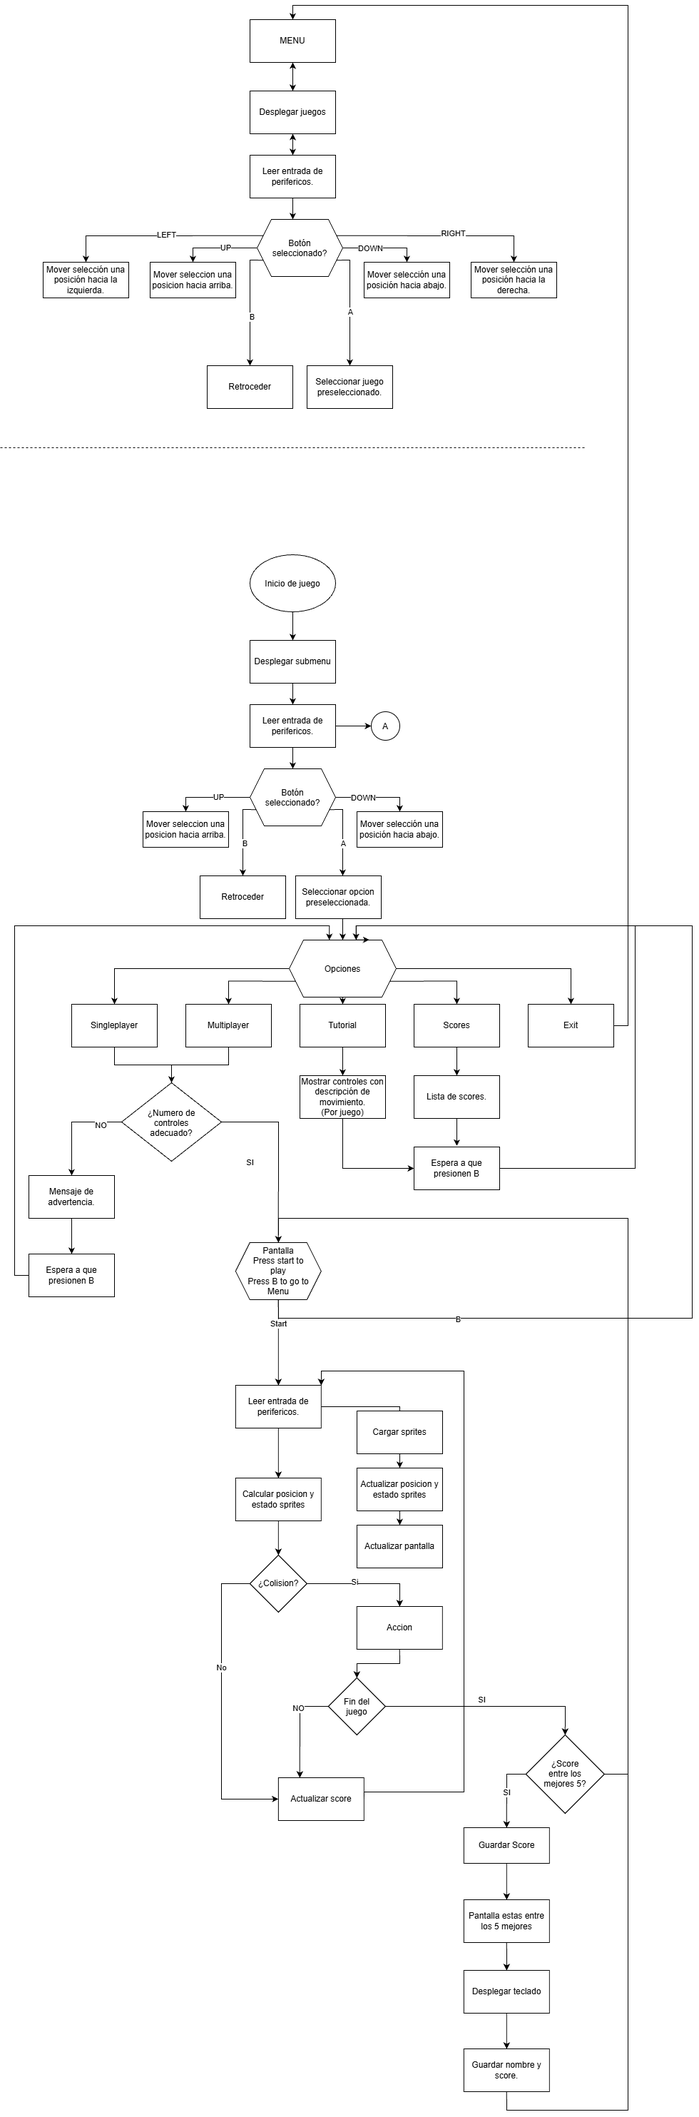
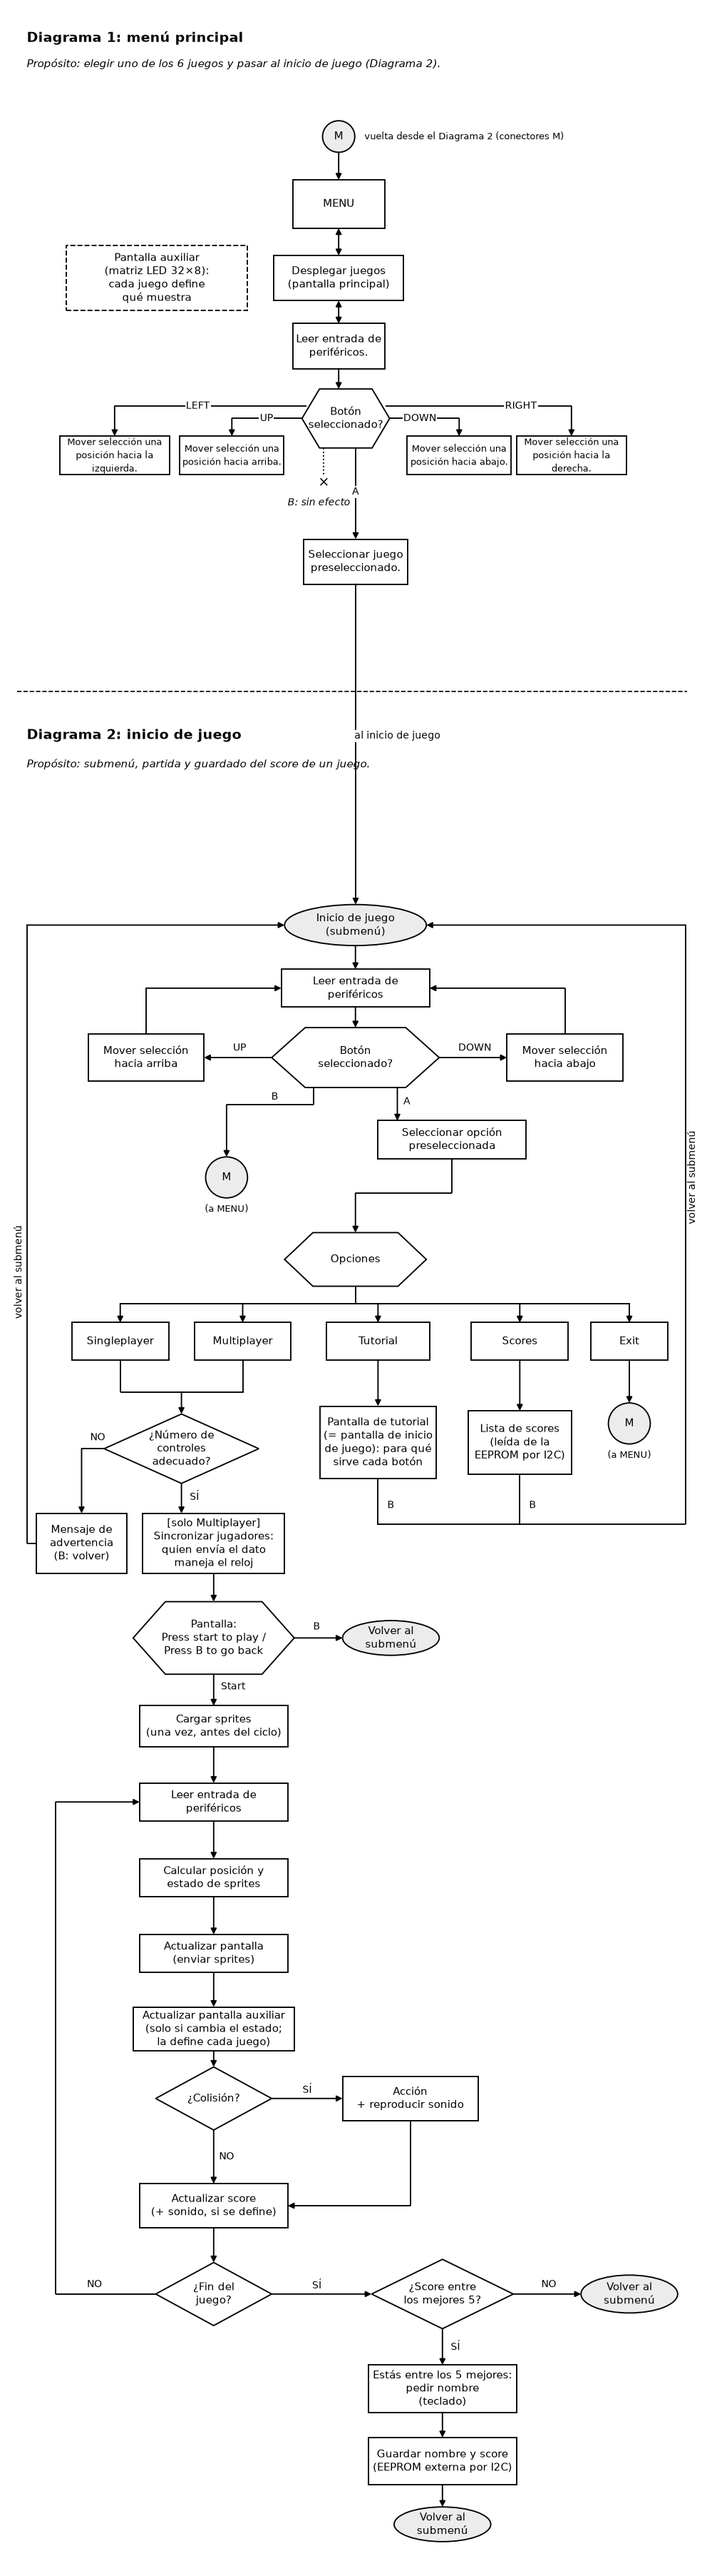
Diagrama unificado del menú y el inicio de juego
Une el Diagrama 1 (menú principal) y el Diagrama 2 (inicio de juego) en una sola
imagen, conectados por la flecha de A y los conectores M, con los cambios pedidos
por el profesor: propósito de cada diagrama, B definido, sprites cargados una vez,
sincronización en Multiplayer, sonido, pantalla auxiliar y score en EEPROM por I2C.
Se agrega al README la descripción de ambos diagramas.

diff --git a/README.md b/README.md
@@ -44,3 +44,15 @@ cmake --build .
 ## Arquitectura general
 
 ![Diagrama del menú e inicio de juego](<./docs/diagramas/Diagrama logica juegos.png>)
+
+El diagrama reúne dos flujos conectados:
+
+- **Diagrama 1, menú principal:** sirve para elegir uno de los 6 juegos. Los juegos se despliegan en la pantalla principal; con las flechas se mueve la selección, **A** abre el juego elegido y **B** no tiene efecto en este menú.
+- **Diagrama 2, inicio de juego:** cubre el submenú del juego (Singleplayer, Multiplayer, Tutorial, Scores y Exit), la partida y el guardado del score. La flecha de **A** del Diagrama 1 llega a su inicio, y los conectores **M** (B en el submenú y Exit) regresan al **MENU** del Diagrama 1.
+
+Detalles que fija el diagrama:
+
+- Los sprites se cargan una sola vez, antes del ciclo de juego.
+- En Multiplayer, quien envía el dato maneja el reloj.
+- Cada juego define qué muestra la pantalla auxiliar (matriz LED 32×8 con MAX7219).
+- El score se guarda en una EEPROM externa por I2C.
